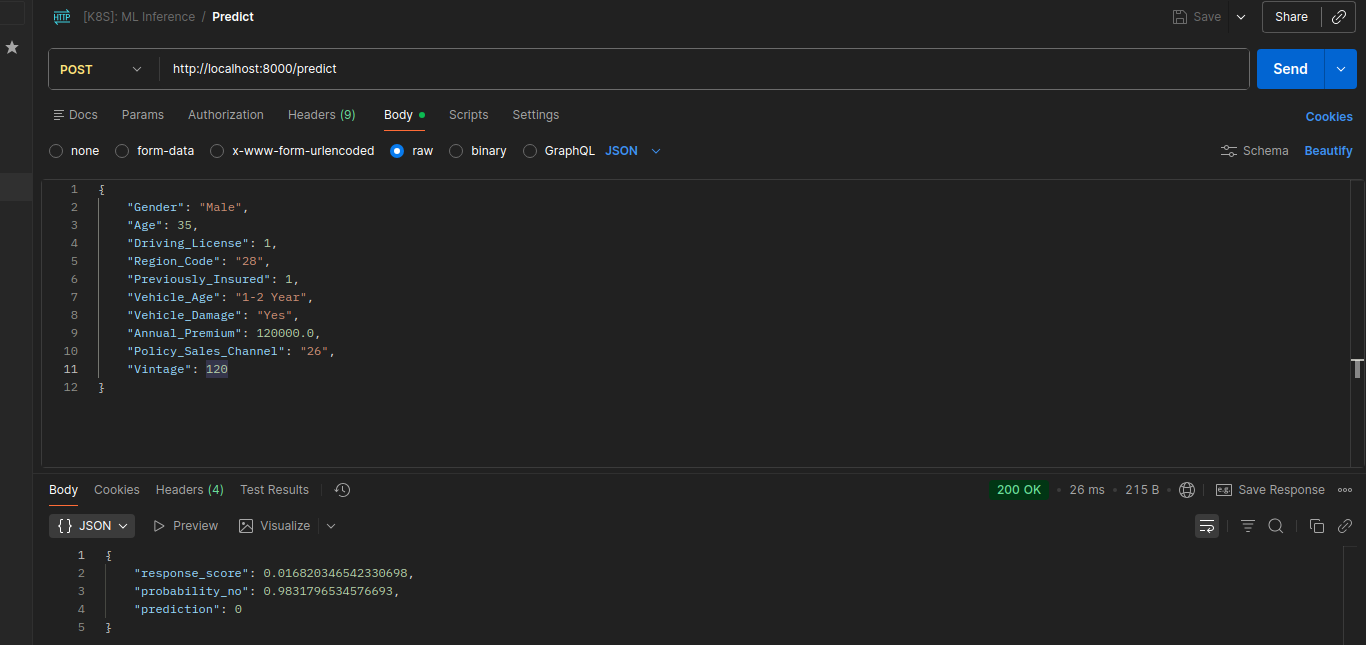
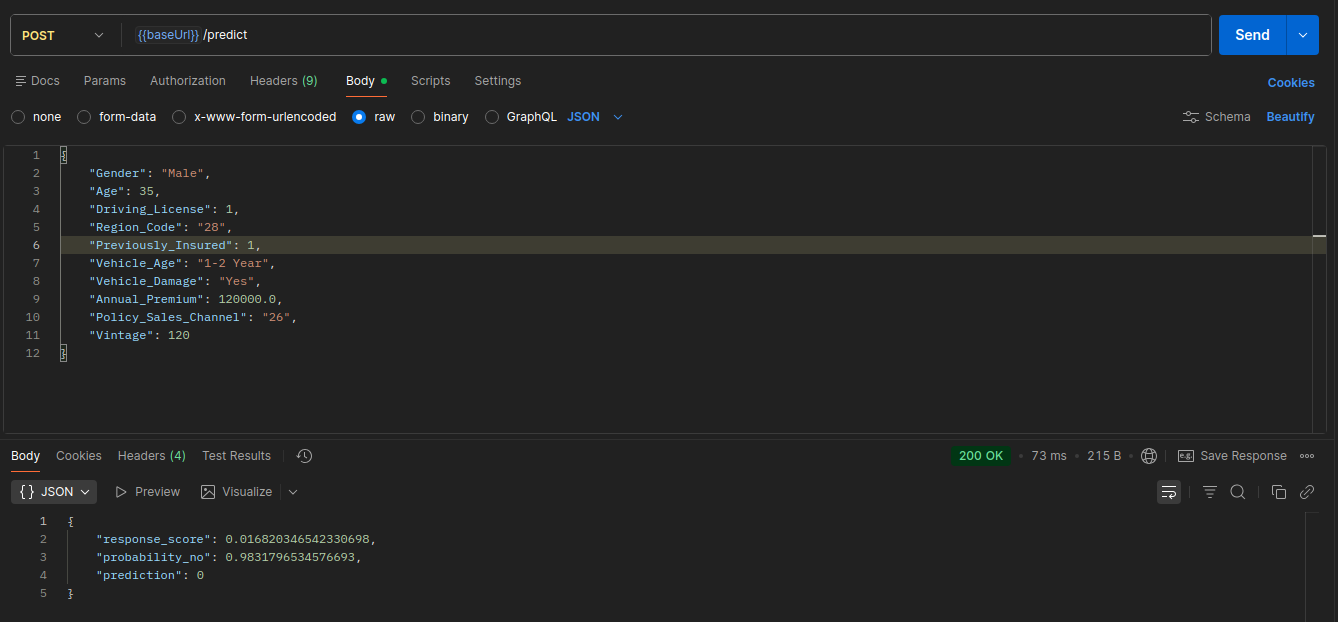
chore: ajusta dependências, variáveis de ambiente e documentação
- Adiciona pydantic-settings às dependências do projeto (configuração tipada da API).
- Adiciona MODEL_NAME e MODEL_ALIAS ao .env.example para seleção do modelo registrado no MLflow.
- Remove dependência do lightgbm (modelo final escolhido foi CatBoost).
- Remove models/ do .gitignore (artefatos de modelo já não são gerados no projeto).
- Ajusta texto do README sobre desbalanceamento do dataset.
- Atualiza imagem do endpoint /predict testado no Postman.

diff --git a/README.md b/README.md
@@ -36,7 +36,7 @@ Variáveis de ambiente (`.env`):
 
 ## Análise exploratória (`src/eda.py`)
 
-- ~88% dos clientes têm Response=0. Portanto, **dataset desbalanceado**. Acurácia é métrica enganosa.
+- Cerca de 88% dos clientes têm Response=0. Portanto, o **dataset é desbalanceado**. Acurácia é métrica enganosa.
 - Previously_Insured=1 nunca contrata novo seguro: feature altamente discriminante.
 - Candidatas a novas features: `prev_and_damage`, `log_annual_premium`, faixas de idade, frequência de `Region_Code` e `Policy_Sales_Channel`.
 
